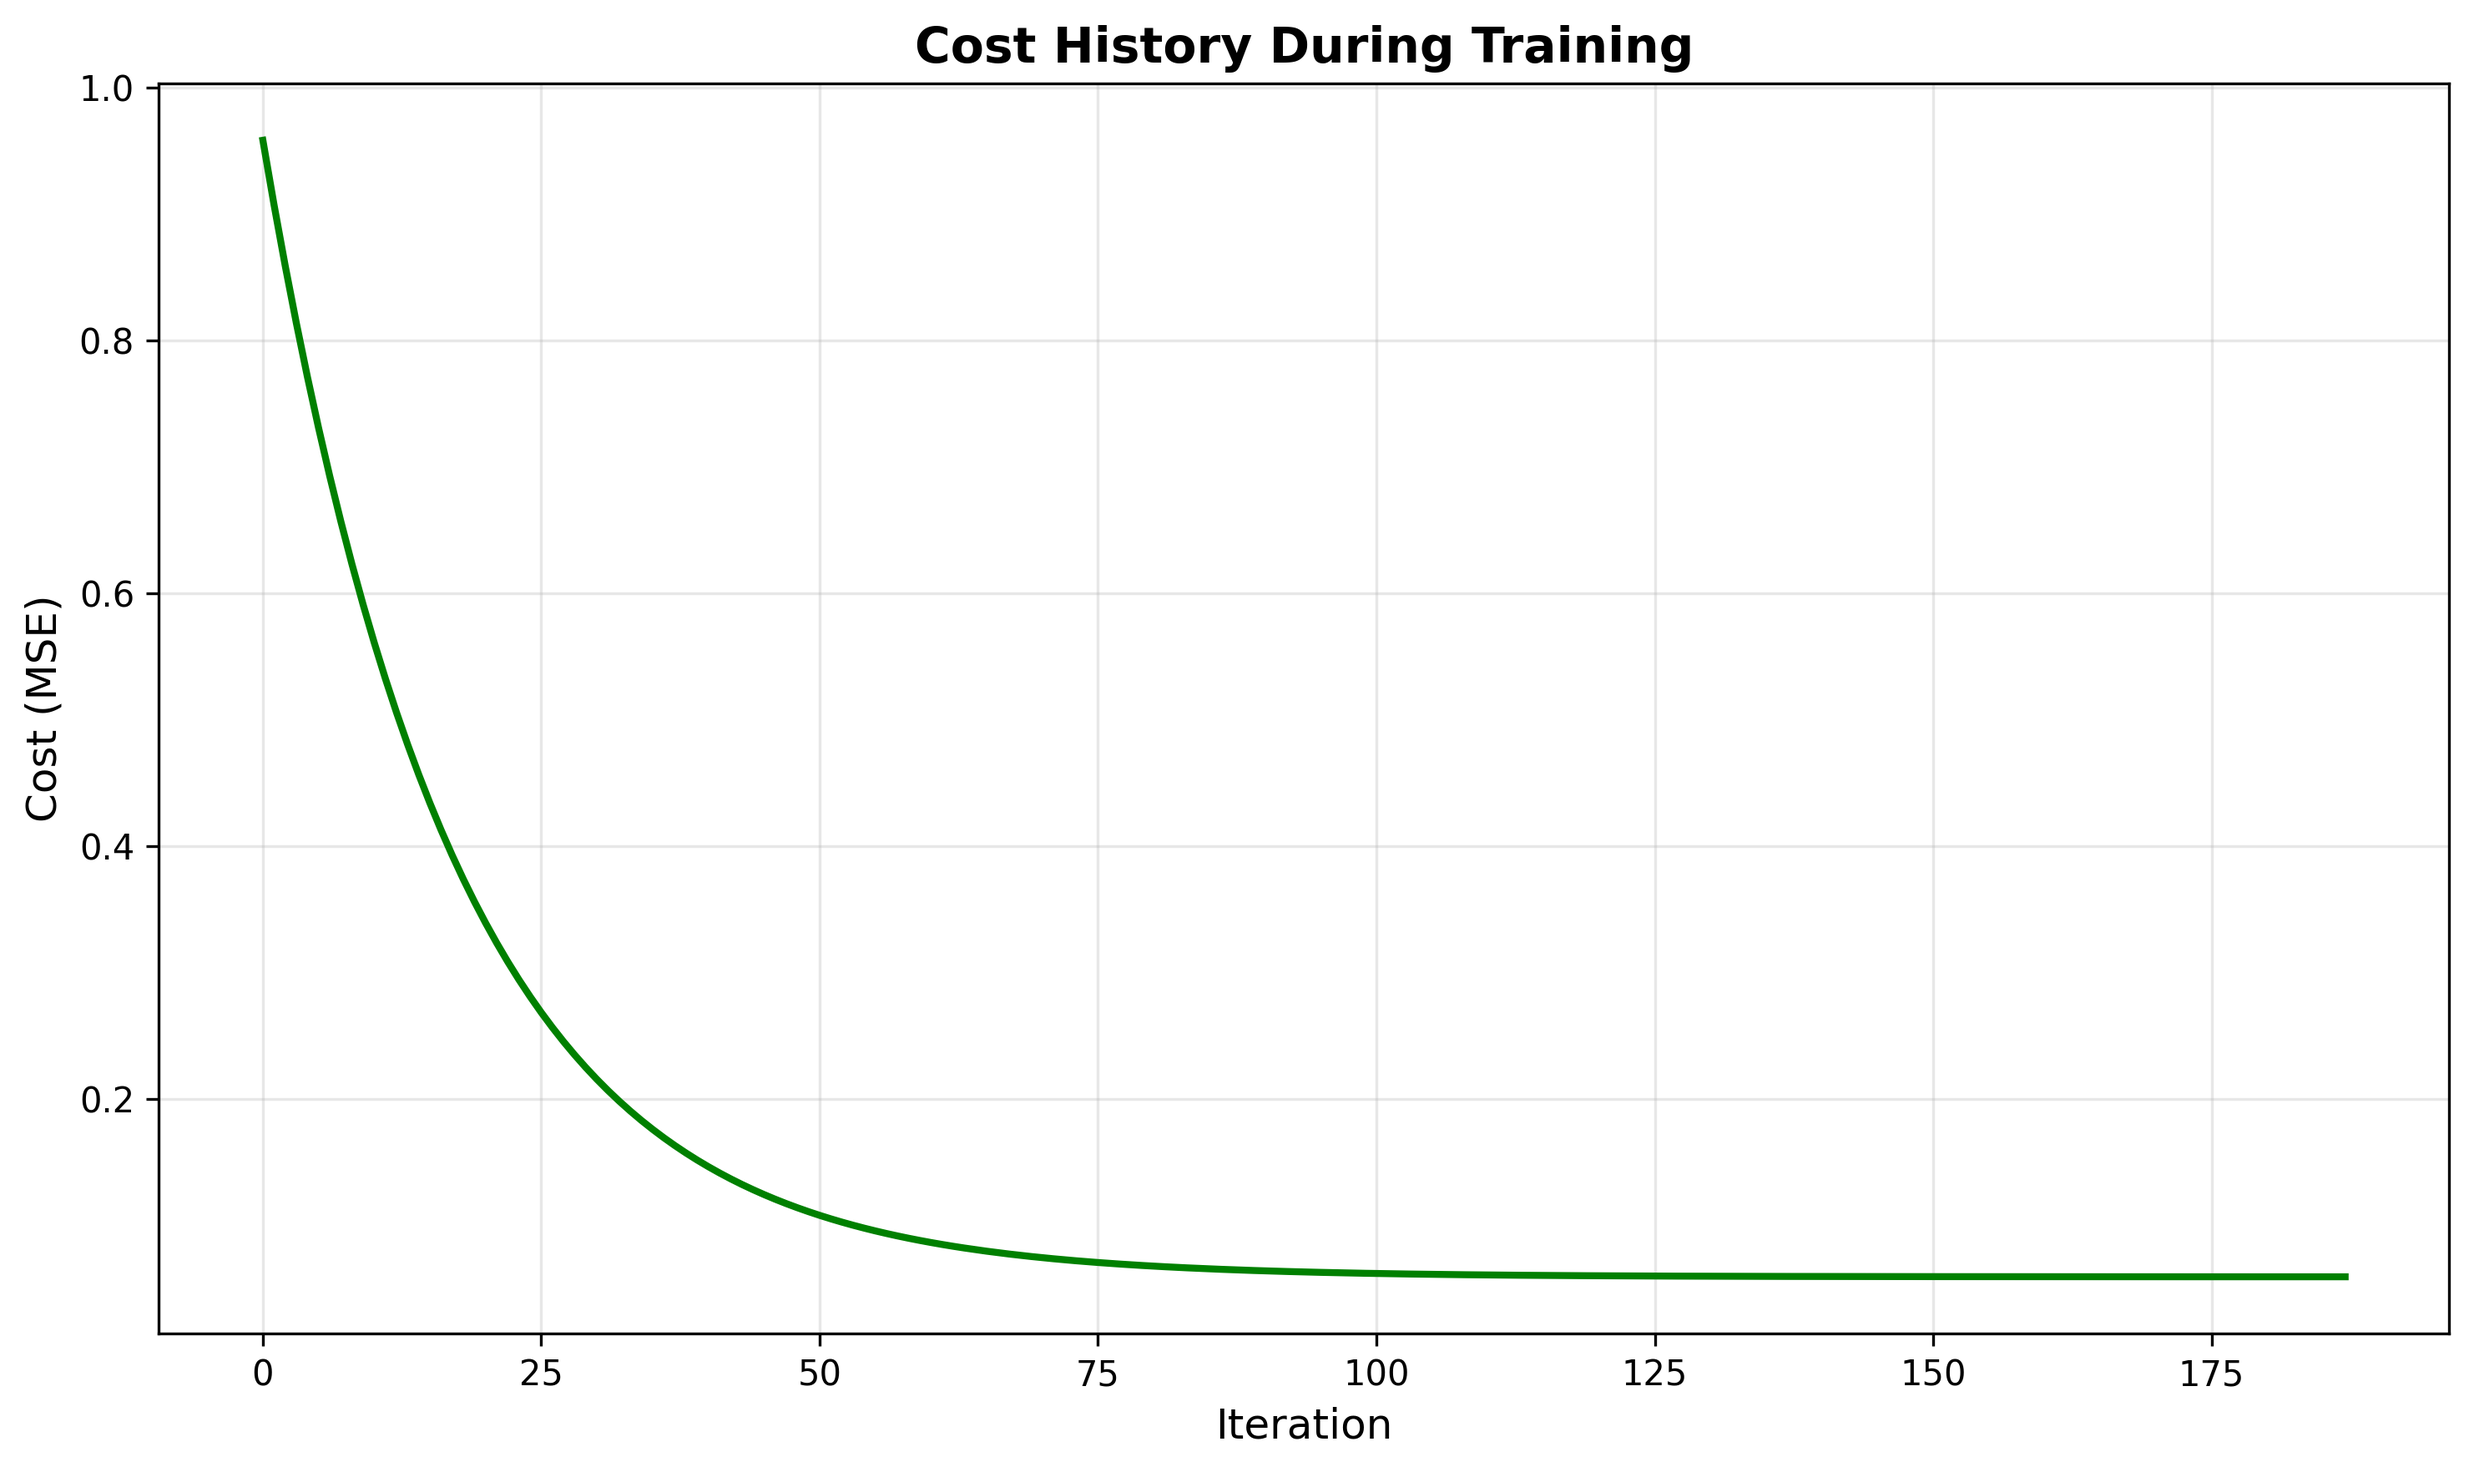
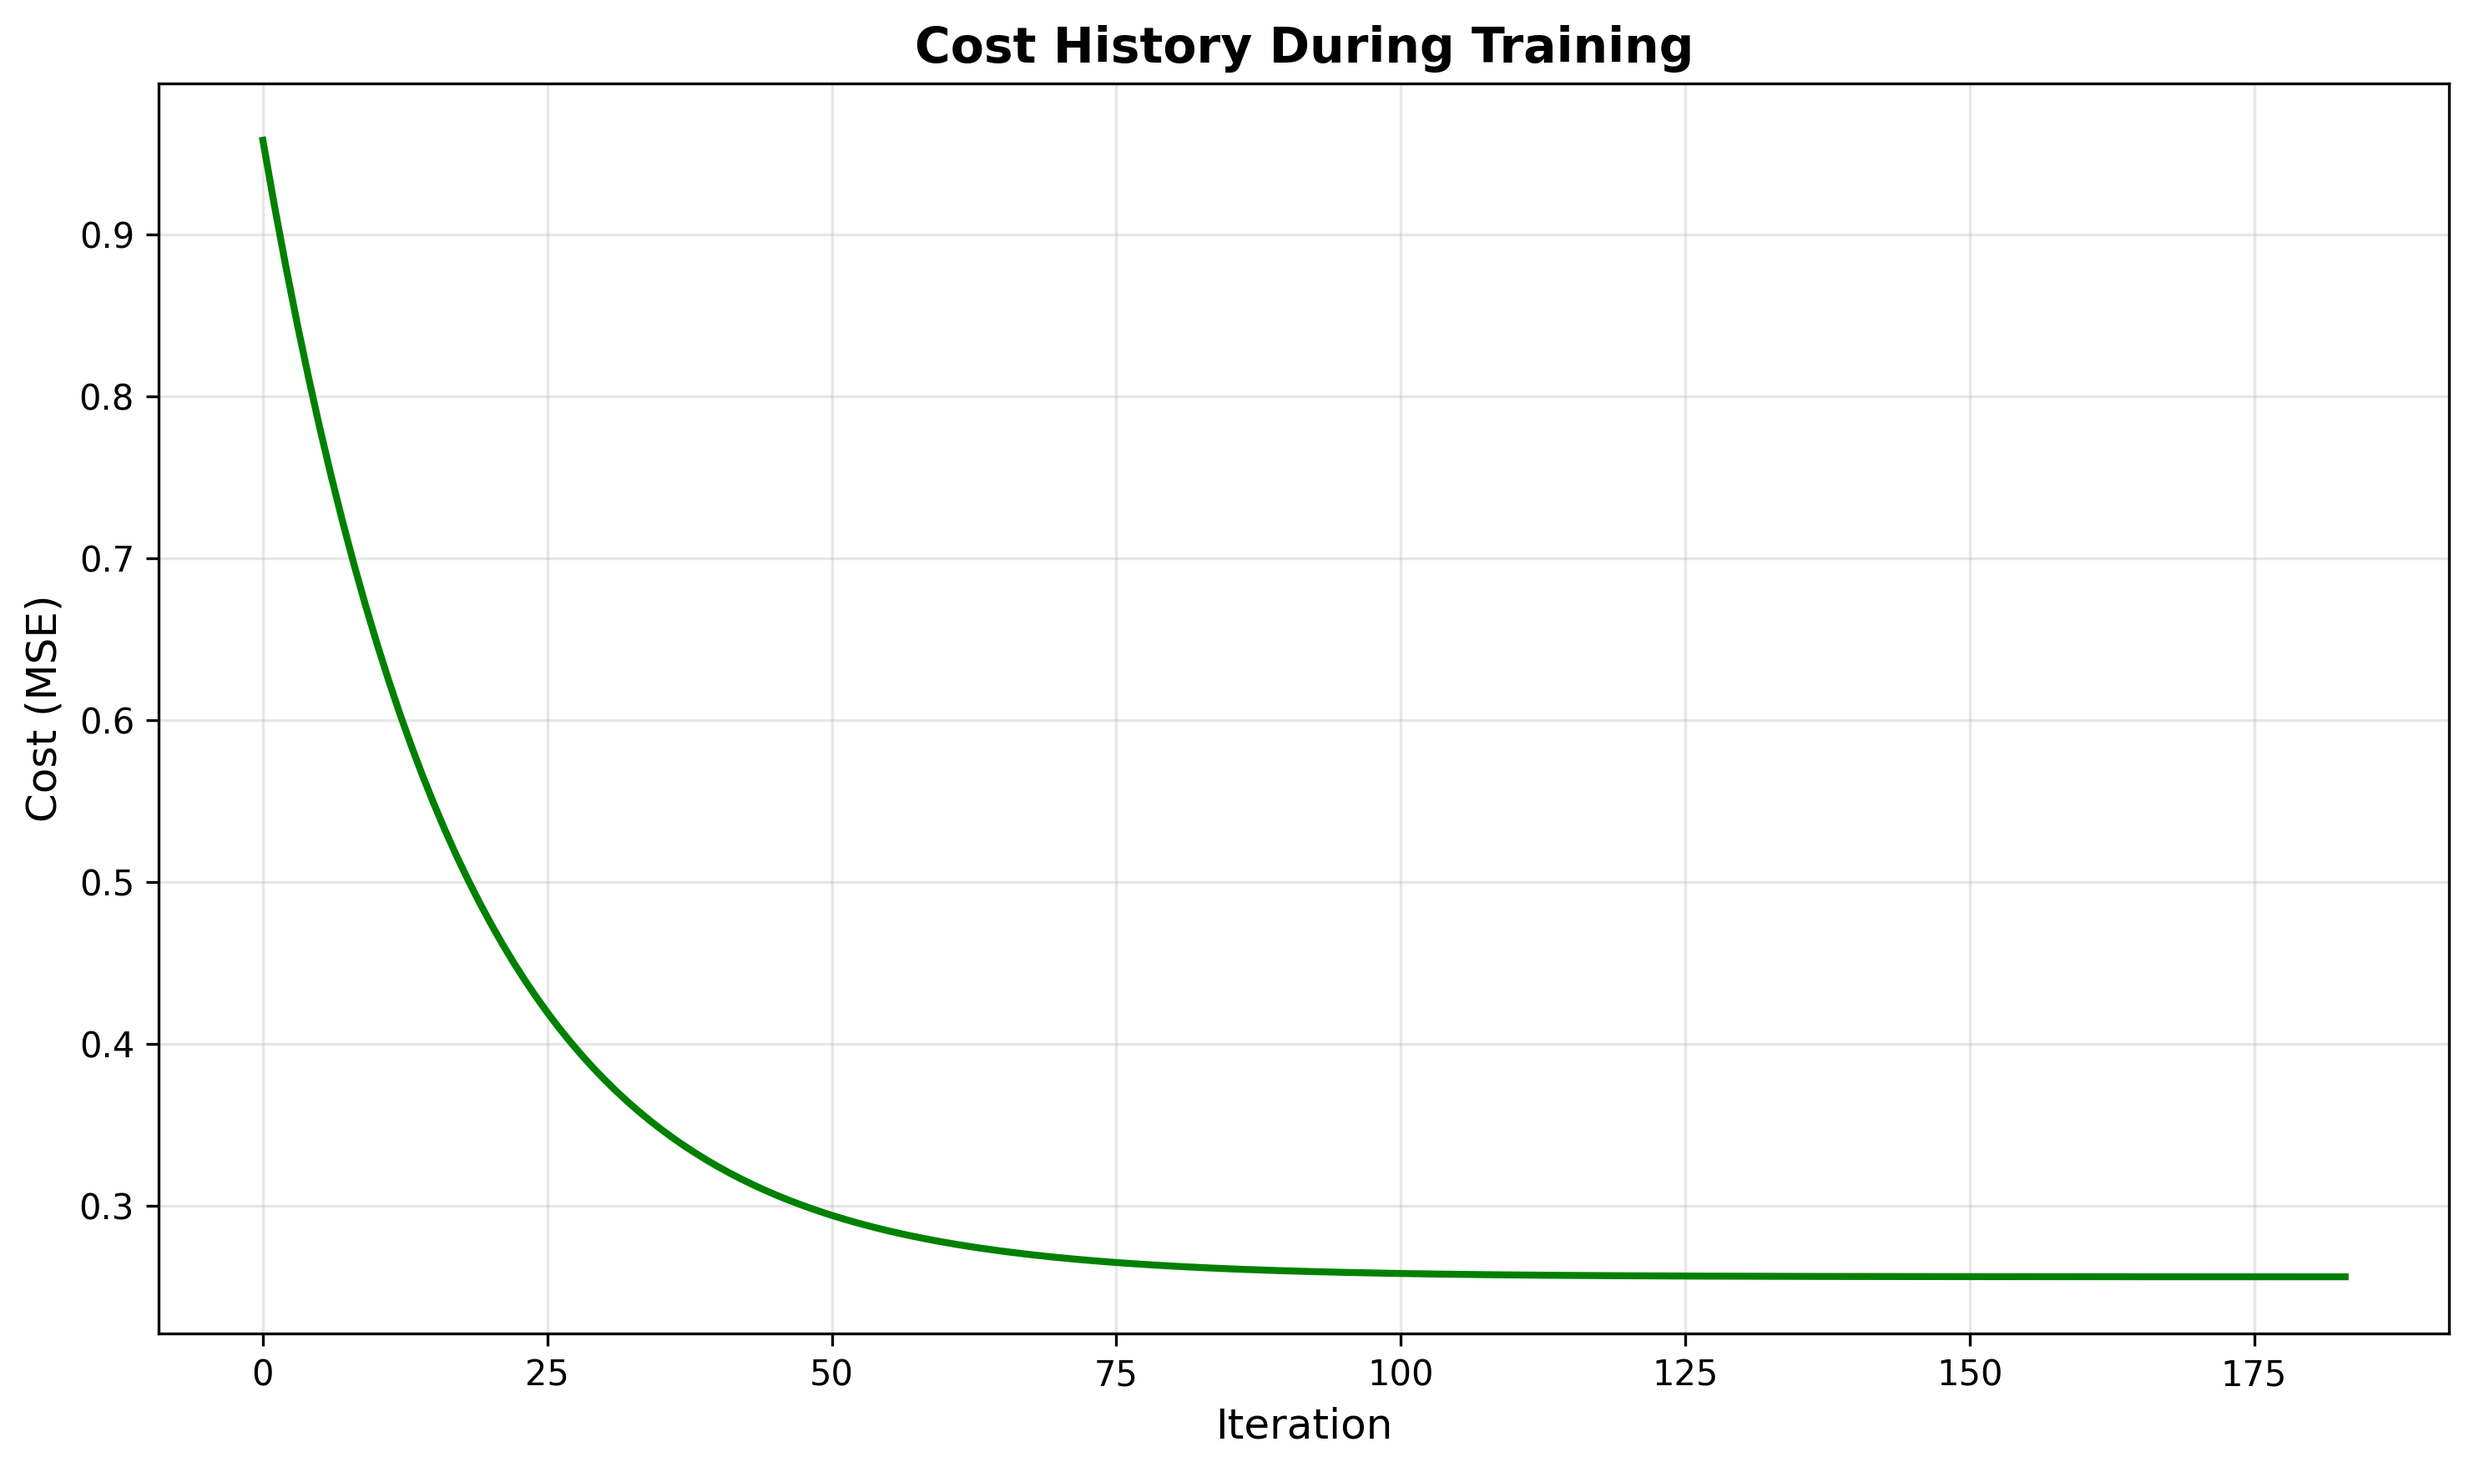
update readme

diff --git a/README.md b/README.md
@@ -249,11 +249,14 @@ This project serves as a solid first step into machine learning.
 * Pandas
 * Matplotlib
 
-## Ressources:
- - [Normalization - Wikipedia](https://en.wikipedia.org/wiki/Standard_score)
+
 
 ## RUN THE PROJECT
 1. Clone the repository
+    ``` bash
+    git clone git@github.com:tissad-101010/linear_regression.git &&
+    cd linear_regression
+    ```
 2. Install dependencies
     ``` bash
     pip install -r requirements.txt
@@ -261,14 +264,38 @@ This project serves as a solid first step into machine learning.
     make install
 
     ```
-3. Run
+3. fit the linear regression model
     ``` bash
-    python src/main.py
+    python src/linear_regression_main.py --data_file data/data.csv
     #or
-    make run
-    ```
+    make fit # data_file=data/data.csv
 
+    ```
+4. predict the price of a car with a specific mileage
+    ``` bash
+    python src/predict_price.py --model_file ./models/model_params.json 
+    make predict # model_file=./models/model_params.json
+
+    ```
+5. evaluate the model on a test set
+    ``` bash
+    python src/evaluate_model.py --model_file ./models/model_params.json --test_data_file data/test_data.csv
+    make evaluate # model_file=./models/model_params.json test_data_file=data/test_data.csv
+
+    ```
 ## Results
+* The final values of `θ0` and `θ1`
+    - models : [model_params.json](./models/model_params.json)
+    ```json
+    {
+        "theta0": 2.220446049250309e-16,
+        "theta1": -0.8521449950897367,
+        "km_mean": 101066.25,
+        "km_std": 52674.24560550151,
+        "price_mean": 6331.833333333333,
+        "price_std": 1319.6541927360352
+    }
+    ```
 After running the project, you should see:
 * A plot of the original data (mileage vs price)
 ![original_data](./plot/original_data_plot.png)
@@ -276,3 +303,15 @@ After running the project, you should see:
 ![normalized_data](./plot/normalized_data_plot.png)
 * A plot of the linear regression line fitted to the normalized data
 ![regression_line](./plot/regression_fit_plot.png)
+* The cost history over iterations, showing how the cost decreases as the model learns
+![final_cost](./plot/cost_history.png)
+
+
+## Ressources:
+- [Normalization - Wikipedia](https://en.wikipedia.org/wiki/Standard_score)
+- [Gradient Descent - Wikipedia](https://en.wikipedia.org/wiki/Gradient_descent)
+- [Cost Function - Wikipedia](https://en.wikipedia.org/wiki/Cost_function)
+- [Linear Regression - Wikipedia](https://en.wikipedia.org/wiki/Linear_regression)
+
+## Author
+**Tissad** - [GitHub](https://github.com/tissad-101010) - [LinkedIn](https://www.linkedin.com/in/tahar-issad-00b96836a/)
